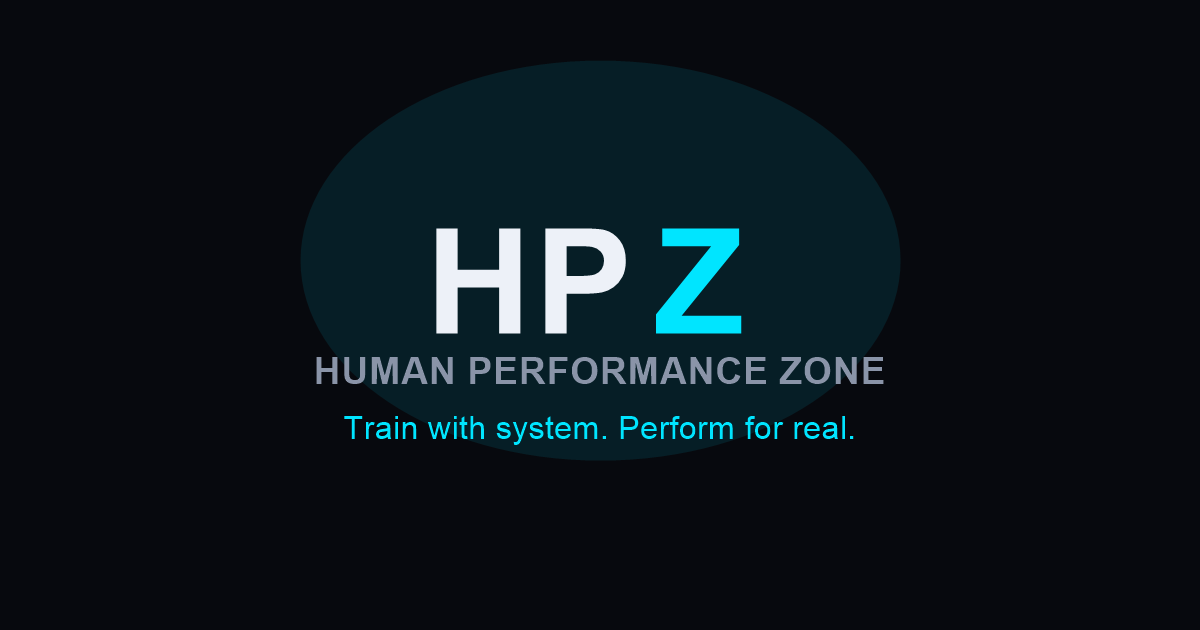
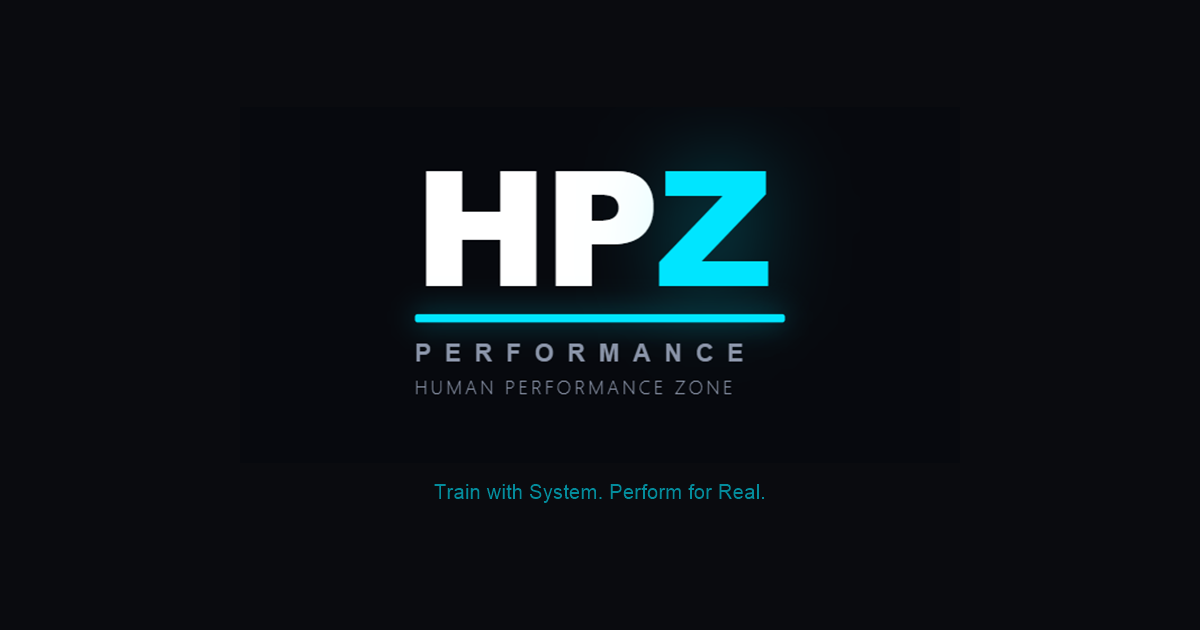
feat: FAQ section, Vercel Analytics, real OG image
FAQ:
- New #faq section with 8 questions (accordion, JS-powered, aria-expanded)
- Topics: what is HPZ, iOS/Android, beta, free tier, APZ/LPZ/RPZ, equipment, coaches, launch date
- FAQ link added to desktop + mobile nav
- Accordion CSS (chevron rotation, fade-in animation, focus states)

Vercel Analytics:
- Added /_vercel/insights/script.js to index.html, terms.html, privacy.html
- Native static-site integration (no npm, no React required)
- Enable Web Analytics in Vercel dashboard to activate

OG Image:
- Replaced PowerShell-generated placeholder with real HPZ-Primary-Dark brand logo
- 1200x630 canvas, logo cropped + scaled, slogan tagline below
- Backgrounds match seamlessly (dark navy)

Changed region(s): [[0.2467, 0.2714, 0.74, 0.6333], [0.37, 0.754, 0.6167, 0.8143], [0.2775, 0.6635, 0.7092, 0.6937]]

diff --git a/index.html b/index.html
@@ -23,6 +23,7 @@
   <link rel="preconnect" href="https://fonts.googleapis.com" />
   <link rel="preconnect" href="https://fonts.gstatic.com" crossorigin />
   <link href="https://fonts.googleapis.com/css2?family=Bebas+Neue&family=Barlow+Condensed:wght@400;600;700&family=Barlow:wght@400;500;600&display=swap" rel="stylesheet" />
+  <script defer src="/_vercel/insights/script.js"></script>
   <style>
     *, *::before, *::after { box-sizing: border-box; margin: 0; padding: 0; }
 
@@ -1286,6 +1287,77 @@
       .beta-cta { padding: 40px 16px; }
     }
 
+    /* ── FAQ ── */
+    .faq-list {
+      display: flex;
+      flex-direction: column;
+    }
+
+    .faq-item {
+      border-bottom: 1px solid var(--border);
+    }
+
+    .faq-item:first-child {
+      border-top: 1px solid var(--border);
+    }
+
+    .faq-q {
+      width: 100%;
+      background: none;
+      border: none;
+      cursor: pointer;
+      display: flex;
+      align-items: center;
+      justify-content: space-between;
+      gap: 16px;
+      padding: 22px 0;
+      text-align: left;
+      color: var(--white);
+      font-family: 'Barlow Condensed', sans-serif;
+      font-size: 17px;
+      font-weight: 700;
+      letter-spacing: 0.5px;
+      line-height: 1.3;
+      transition: color 0.2s;
+    }
+
+    .faq-q:hover { color: var(--cyan); }
+
+    .faq-q[aria-expanded="true"] { color: var(--cyan); }
+
+    .faq-chevron {
+      stroke: currentColor;
+      flex-shrink: 0;
+      transition: transform 0.25s ease;
+    }
+
+    .faq-q[aria-expanded="true"] .faq-chevron {
+      transform: rotate(180deg);
+    }
+
+    .faq-a {
+      padding: 0 0 22px;
+      animation: faq-open 0.25s ease;
+    }
+
+    .faq-a p {
+      font-size: 14px;
+      color: var(--gray);
+      line-height: 1.8;
+    }
+
+    .faq-a strong { color: var(--white); }
+
+    @keyframes faq-open {
+      from { opacity: 0; transform: translateY(-6px); }
+      to   { opacity: 1; transform: translateY(0); }
+    }
+
+    @media (max-width: 768px) {
+      #faq { padding: 60px 20px !important; }
+      .faq-q { font-size: 15px; }
+    }
+
     /* ── FOCUS STATES (keyboard accessibility) ── */
     :focus-visible {
       outline: 2px solid var(--cyan);
@@ -1356,6 +1428,7 @@
       <li><a href="#features">Features</a></li>
       <li><a href="#pricing">Pricing</a></li>
       <li><a href="#beta">Beta Program</a></li>
+      <li><a href="#faq">FAQ</a></li>
       <li><span class="nav-cta" style="background:#161b26;color:#404858;cursor:default;pointer-events:none;" aria-disabled="true">Coming Soon</span></li>
     </ul>
   </nav>
@@ -1750,6 +1823,98 @@
     </div>
   </section>
 
+  <!-- FAQ -->
+  <section id="faq" style="background: var(--bg2); max-width: 100%; padding: 100px 40px;">
+    <div style="max-width: 760px; margin: 0 auto;">
+      <div class="section-tag fade-up">FAQ</div>
+      <h2 class="section-title fade-up">COMMON<br />QUESTIONS.</h2>
+      <p class="section-desc fade-up">Everything you need to know about HPZ before getting started.</p>
+      <div class="faq-list" style="margin-top: 48px;">
+
+        <div class="faq-item fade-up">
+          <button class="faq-q" aria-expanded="false">
+            <span>What is HPZ?</span>
+            <svg class="faq-chevron" width="20" height="20" viewBox="0 0 24 24" fill="none" stroke-width="2" stroke-linecap="round" stroke-linejoin="round" aria-hidden="true"><polyline points="6 9 12 15 18 9"/></svg>
+          </button>
+          <div class="faq-a" hidden>
+            <p>HPZ — Human Performance Zone — is a structured training and performance app. It's built around three training divisions: APZ (Athletic Performance Zone), LPZ (Lifestyle Performance Zone), and RPZ (Recovery Performance Zone). The system adapts your training routine based on your sport, goal, level, equipment, and season — so every user gets a plan built for them, not a generic program.</p>
+          </div>
+        </div>
+
+        <div class="faq-item fade-up">
+          <button class="faq-q" aria-expanded="false">
+            <span>Is HPZ available on iOS and Android?</span>
+            <svg class="faq-chevron" width="20" height="20" viewBox="0 0 24 24" fill="none" stroke-width="2" stroke-linecap="round" stroke-linejoin="round" aria-hidden="true"><polyline points="6 9 12 15 18 9"/></svg>
+          </button>
+          <div class="faq-a" hidden>
+            <p>HPZ is currently in beta as a Progressive Web App (PWA) — meaning it runs directly from your browser and can be added to your home screen on both iOS and Android, no app store required. Native App Store and Google Play versions are planned for the official launch.</p>
+          </div>
+        </div>
+
+        <div class="faq-item fade-up">
+          <button class="faq-q" aria-expanded="false">
+            <span>What is the Beta Program?</span>
+            <svg class="faq-chevron" width="20" height="20" viewBox="0 0 24 24" fill="none" stroke-width="2" stroke-linecap="round" stroke-linejoin="round" aria-hidden="true"><polyline points="6 9 12 15 18 9"/></svg>
+          </button>
+          <div class="faq-a" hidden>
+            <p>The HPZ Beta Program gives a limited group of users early access to the platform before its official release. Beta testers help us identify bugs, validate the user experience, and shape future features. To join, send us a DM on Instagram at <strong>@hpzperformance</strong> with the word "BETA" — spots are limited.</p>
+          </div>
+        </div>
+
+        <div class="faq-item fade-up">
+          <button class="faq-q" aria-expanded="false">
+            <span>Is HPZ free to use?</span>
+            <svg class="faq-chevron" width="20" height="20" viewBox="0 0 24 24" fill="none" stroke-width="2" stroke-linecap="round" stroke-linejoin="round" aria-hidden="true"><polyline points="6 9 12 15 18 9"/></svg>
+          </button>
+          <div class="faq-a" hidden>
+            <p>Yes — HPZ will have a free tier that gives you access to the core training system, including one automated routine per division, the full Workout Engine, session tracking, and 200+ exercises in the library. Premium plans (Monthly, Quarterly, Annual) unlock the Routine Builder, full routine library, and advanced analytics. All plans are coming soon.</p>
+          </div>
+        </div>
+
+        <div class="faq-item fade-up">
+          <button class="faq-q" aria-expanded="false">
+            <span>What is the difference between APZ, LPZ, and RPZ?</span>
+            <svg class="faq-chevron" width="20" height="20" viewBox="0 0 24 24" fill="none" stroke-width="2" stroke-linecap="round" stroke-linejoin="round" aria-hidden="true"><polyline points="6 9 12 15 18 9"/></svg>
+          </button>
+          <div class="faq-a" hidden>
+            <p><strong>APZ (Athletic Performance Zone)</strong> is designed for athletes who train for real competition — strength, power, speed, and sport-specific programs for baseball, basketball, soccer, track, and more.<br /><br /><strong>LPZ (Lifestyle Performance Zone)</strong> is for anyone training with structure outside of competitive sports — general fitness, body composition, and habit-based training for all levels.<br /><br /><strong>RPZ (Recovery Performance Zone)</strong> is for mobility, injury prevention, and active recovery — an essential part of any performance system.</p>
+          </div>
+        </div>
+
+        <div class="faq-item fade-up">
+          <button class="faq-q" aria-expanded="false">
+            <span>Do I need special equipment?</span>
+            <svg class="faq-chevron" width="20" height="20" viewBox="0 0 24 24" fill="none" stroke-width="2" stroke-linecap="round" stroke-linejoin="round" aria-hidden="true"><polyline points="6 9 12 15 18 9"/></svg>
+          </button>
+          <div class="faq-a" hidden>
+            <p>No. During onboarding, you tell HPZ what equipment you have access to — full gym, home gym, minimal equipment, or bodyweight only. The system adapts your routine accordingly. You can always update your equipment settings from your profile.</p>
+          </div>
+        </div>
+
+        <div class="faq-item fade-up">
+          <button class="faq-q" aria-expanded="false">
+            <span>Can coaches use HPZ?</span>
+            <svg class="faq-chevron" width="20" height="20" viewBox="0 0 24 24" fill="none" stroke-width="2" stroke-linecap="round" stroke-linejoin="round" aria-hidden="true"><polyline points="6 9 12 15 18 9"/></svg>
+          </button>
+          <div class="faq-a" hidden>
+            <p>Yes. Coaches can use HPZ to design and manage their own training routines using the Routine Builder, assign structured programs based on sport and level, and track performance over time. HPZ gives coaches a clear, professional tool to deliver structured training — not just generic content.</p>
+          </div>
+        </div>
+
+        <div class="faq-item fade-up">
+          <button class="faq-q" aria-expanded="false">
+            <span>When will HPZ officially launch?</span>
+            <svg class="faq-chevron" width="20" height="20" viewBox="0 0 24 24" fill="none" stroke-width="2" stroke-linecap="round" stroke-linejoin="round" aria-hidden="true"><polyline points="6 9 12 15 18 9"/></svg>
+          </button>
+          <div class="faq-a" hidden>
+            <p>HPZ is currently in private beta. The official launch — including App Store, Google Play, and paid plans — is coming soon. Follow <strong>@hpzperformance</strong> on Instagram to be the first to know when we go live.</p>
+          </div>
+        </div>
+
+      </div>
+    </div>
+  </section>
+
   <!-- CTA -->
   <div class="cta-section">
     <h2 class="cta-title fade-up">YOUR ZONE<br /><span class="accent">AWAITS.</span></h2>
@@ -1827,6 +1992,20 @@
     // Close menu if viewport resizes back to desktop
     window.addEventListener('resize', () => {
       if (window.innerWidth > 768) closeNav();
+    });
+
+    // FAQ accordion
+    document.querySelectorAll('.faq-q').forEach(btn => {
+      btn.addEventListener('click', () => {
+        const expanded = btn.getAttribute('aria-expanded') === 'true';
+        const answer = btn.nextElementSibling;
+        btn.setAttribute('aria-expanded', String(!expanded));
+        if (expanded) {
+          answer.hidden = true;
+        } else {
+          answer.hidden = false;
+        }
+      });
     });
   </script>
 

diff --git a/privacy.html b/privacy.html
@@ -15,6 +15,7 @@
   <meta name="twitter:image" content="https://www.hpzperformance.com/og-image.png" />
   <link rel="icon" type="image/svg+xml" href="/favicon.svg" />
   <link rel="apple-touch-icon" href="/apple-touch-icon.png" />
+  <script defer src="/_vercel/insights/script.js"></script>
   <link rel="preconnect" href="https://fonts.googleapis.com" />
   <link rel="preconnect" href="https://fonts.gstatic.com" crossorigin />
   <link href="https://fonts.googleapis.com/css2?family=Bebas+Neue&family=Barlow+Condensed:wght@400;600;700&family=Barlow:wght@400;500;600&display=swap" rel="stylesheet" />

diff --git a/terms.html b/terms.html
@@ -15,6 +15,7 @@
   <meta name="twitter:image" content="https://www.hpzperformance.com/og-image.png" />
   <link rel="icon" type="image/svg+xml" href="/favicon.svg" />
   <link rel="apple-touch-icon" href="/apple-touch-icon.png" />
+  <script defer src="/_vercel/insights/script.js"></script>
   <link rel="preconnect" href="https://fonts.googleapis.com" />
   <link rel="preconnect" href="https://fonts.gstatic.com" crossorigin />
   <link href="https://fonts.googleapis.com/css2?family=Bebas+Neue&family=Barlow+Condensed:wght@400;600;700&family=Barlow:wght@400;500;600&display=swap" rel="stylesheet" />
